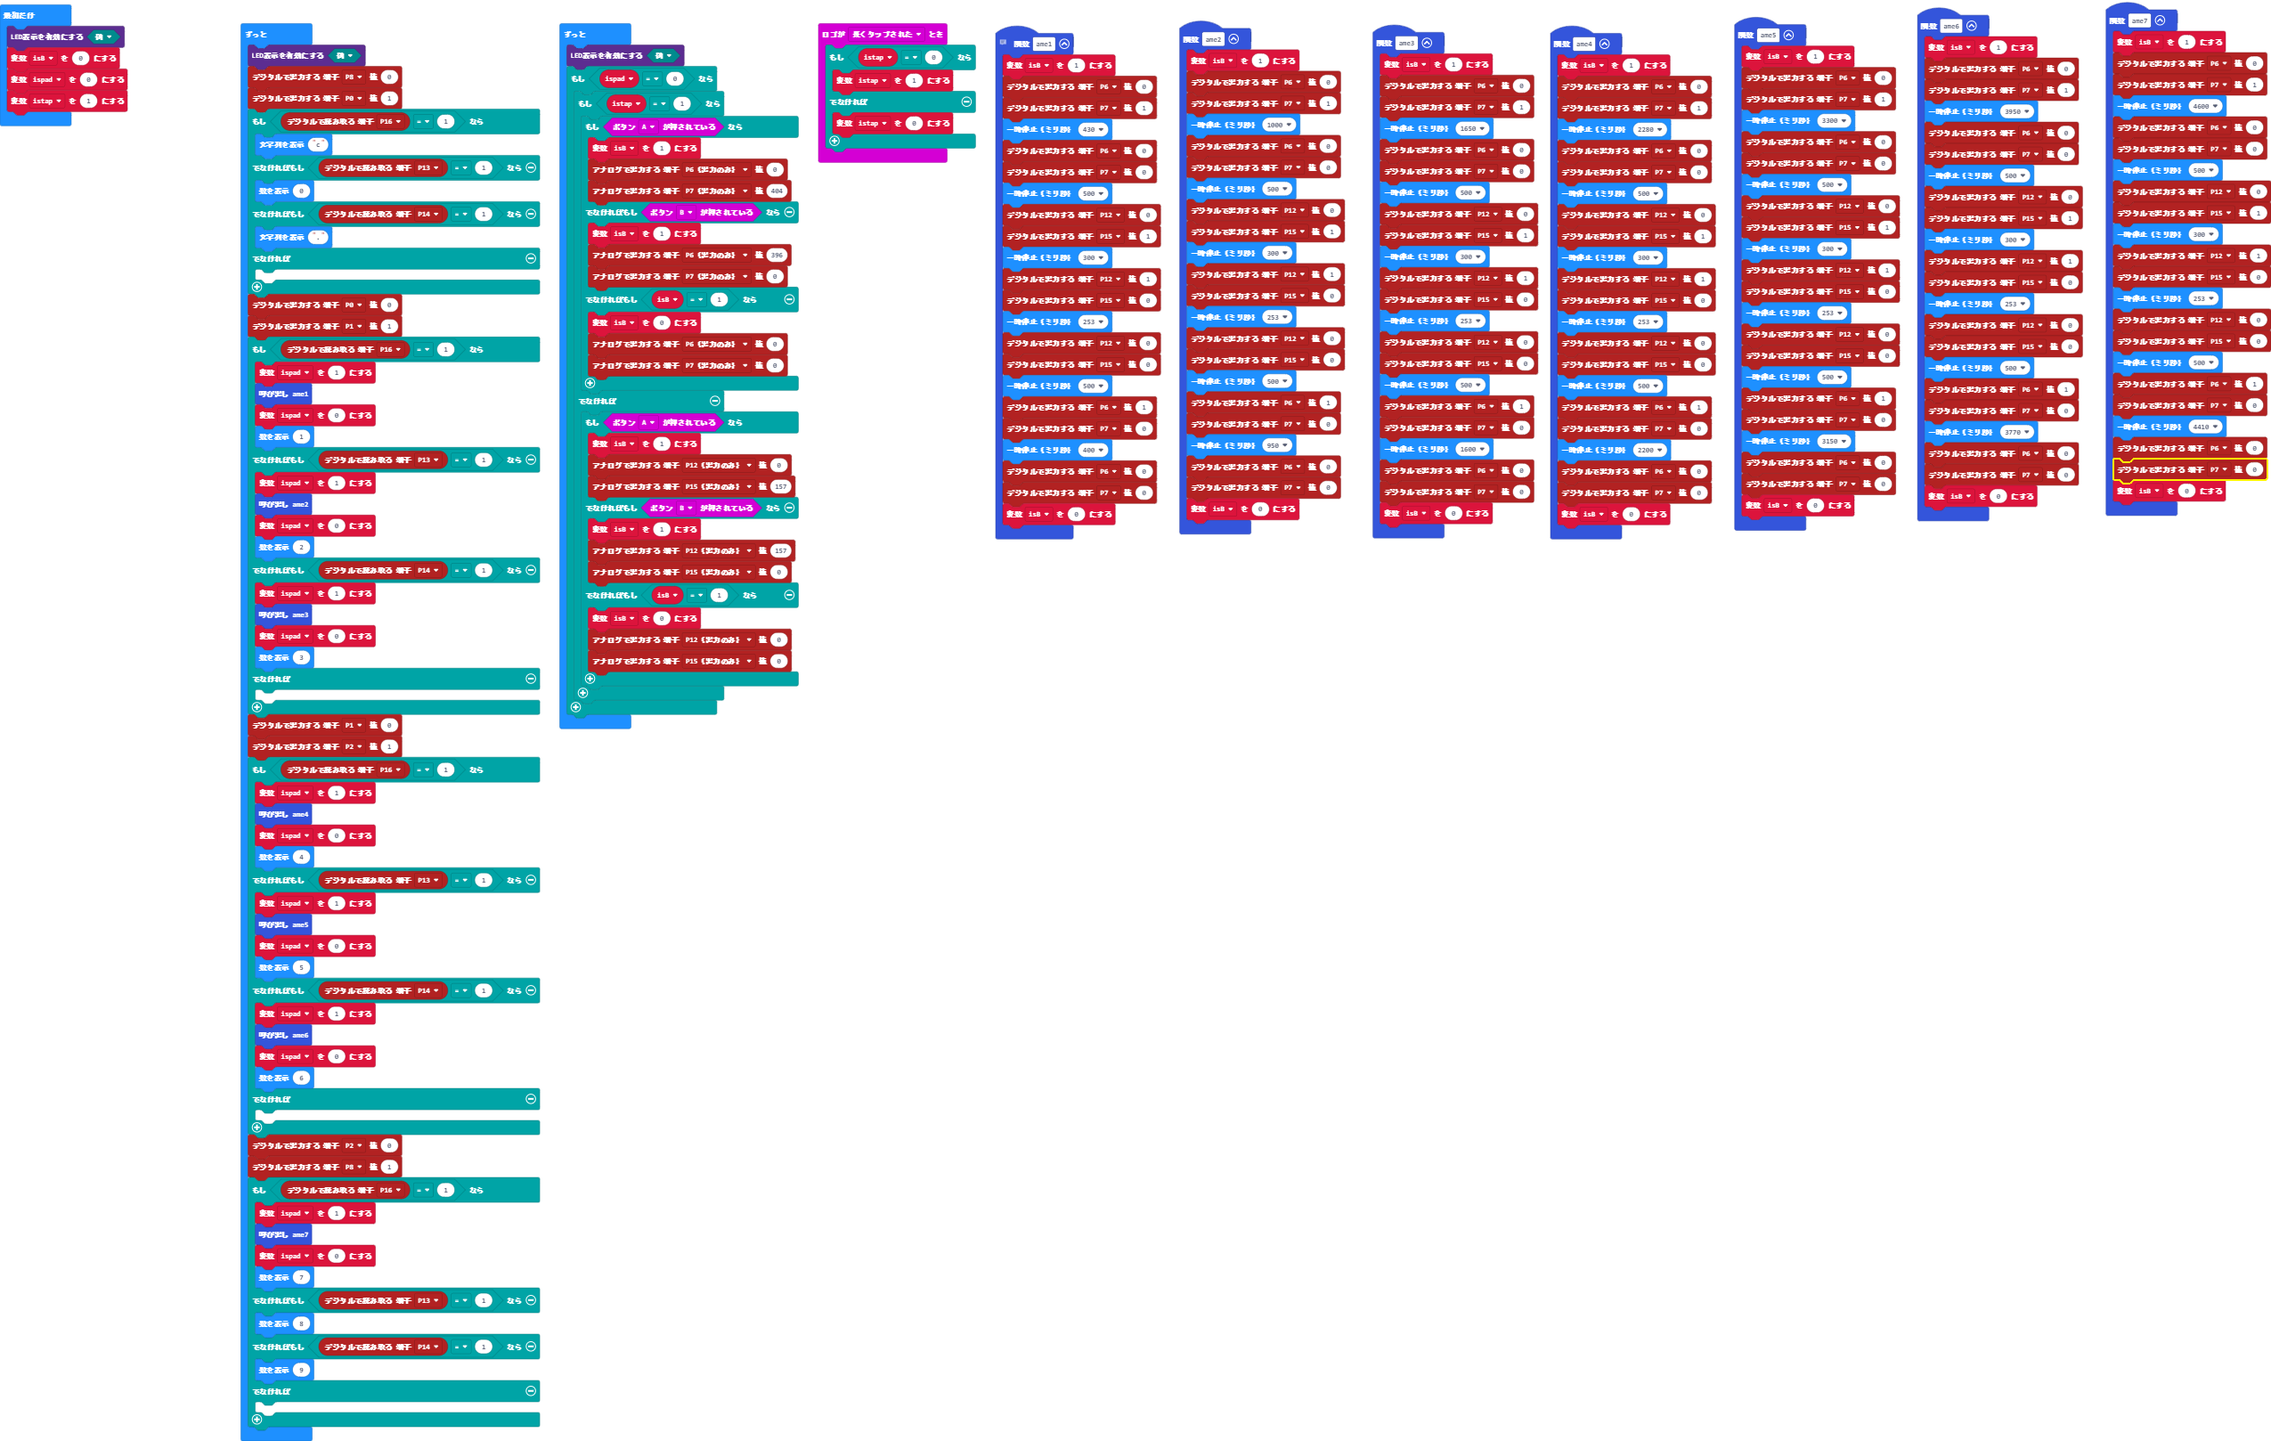
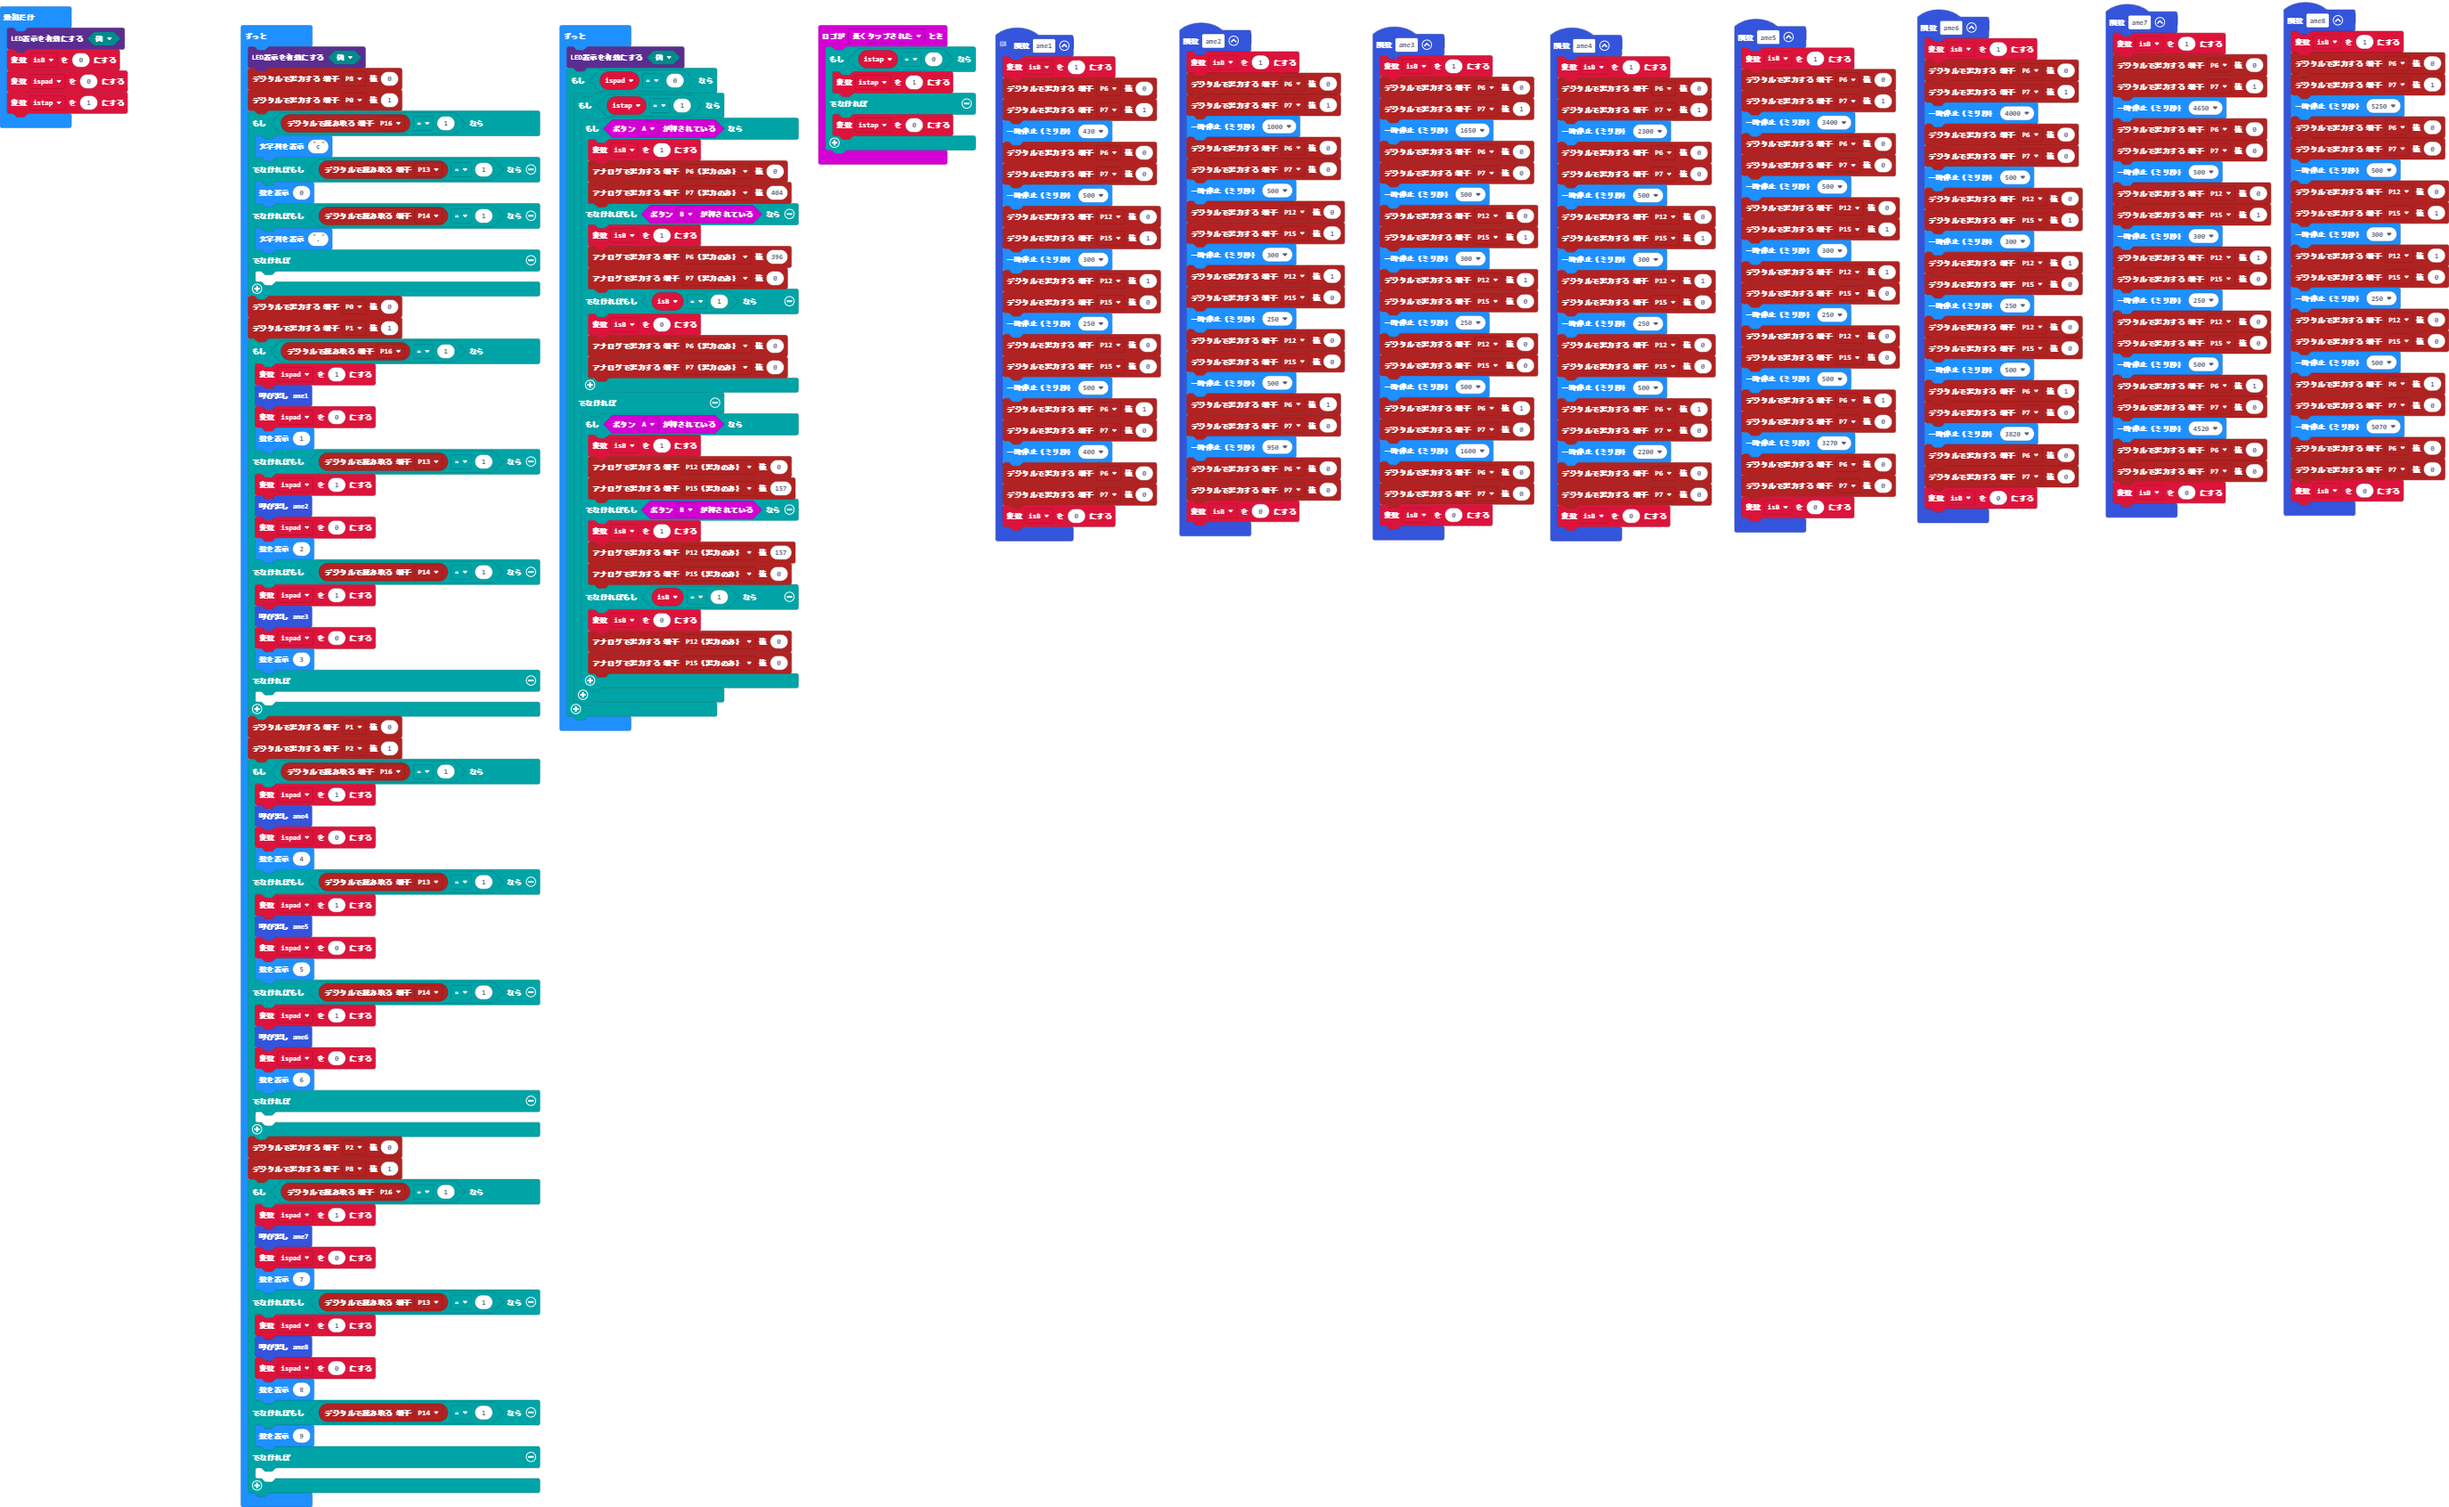
更新 main.blocks, main.ts

Changed region(s): [[0.0929, 0.0, 1.0, 1.0], [0.0, 0.0, 0.062, 0.0927]]

diff --git a/main.ts b/main.ts
@@ -11,7 +11,7 @@ function ame3 () {
     basic.pause(300)
     pins.digitalWritePin(DigitalPin.P12, 1)
     pins.digitalWritePin(DigitalPin.P15, 0)
-    basic.pause(253)
+    basic.pause(250)
     pins.digitalWritePin(DigitalPin.P12, 0)
     pins.digitalWritePin(DigitalPin.P15, 0)
     basic.pause(500)
@@ -60,7 +60,7 @@ function ame1 () {
     basic.pause(300)
     pins.digitalWritePin(DigitalPin.P12, 1)
     pins.digitalWritePin(DigitalPin.P15, 0)
-    basic.pause(253)
+    basic.pause(250)
     pins.digitalWritePin(DigitalPin.P12, 0)
     pins.digitalWritePin(DigitalPin.P15, 0)
     basic.pause(500)
@@ -82,7 +82,7 @@ function ame4 () {
     isB = 1
     pins.digitalWritePin(DigitalPin.P6, 0)
     pins.digitalWritePin(DigitalPin.P7, 1)
-    basic.pause(2280)
+    basic.pause(2300)
     pins.digitalWritePin(DigitalPin.P6, 0)
     pins.digitalWritePin(DigitalPin.P7, 0)
     basic.pause(500)
@@ -91,7 +91,7 @@ function ame4 () {
     basic.pause(300)
     pins.digitalWritePin(DigitalPin.P12, 1)
     pins.digitalWritePin(DigitalPin.P15, 0)
-    basic.pause(253)
+    basic.pause(250)
     pins.digitalWritePin(DigitalPin.P12, 0)
     pins.digitalWritePin(DigitalPin.P15, 0)
     basic.pause(500)
@@ -106,7 +106,7 @@ function ame5 () {
     isB = 1
     pins.digitalWritePin(DigitalPin.P6, 0)
     pins.digitalWritePin(DigitalPin.P7, 1)
-    basic.pause(3300)
+    basic.pause(3400)
     pins.digitalWritePin(DigitalPin.P6, 0)
     pins.digitalWritePin(DigitalPin.P7, 0)
     basic.pause(500)
@@ -115,13 +115,37 @@ function ame5 () {
     basic.pause(300)
     pins.digitalWritePin(DigitalPin.P12, 1)
     pins.digitalWritePin(DigitalPin.P15, 0)
-    basic.pause(253)
+    basic.pause(250)
     pins.digitalWritePin(DigitalPin.P12, 0)
     pins.digitalWritePin(DigitalPin.P15, 0)
     basic.pause(500)
     pins.digitalWritePin(DigitalPin.P6, 1)
     pins.digitalWritePin(DigitalPin.P7, 0)
-    basic.pause(3150)
+    basic.pause(3270)
+    pins.digitalWritePin(DigitalPin.P6, 0)
+    pins.digitalWritePin(DigitalPin.P7, 0)
+    isB = 0
+}
+function ame8 () {
+    isB = 1
+    pins.digitalWritePin(DigitalPin.P6, 0)
+    pins.digitalWritePin(DigitalPin.P7, 1)
+    basic.pause(5250)
+    pins.digitalWritePin(DigitalPin.P6, 0)
+    pins.digitalWritePin(DigitalPin.P7, 0)
+    basic.pause(500)
+    pins.digitalWritePin(DigitalPin.P12, 0)
+    pins.digitalWritePin(DigitalPin.P15, 1)
+    basic.pause(300)
+    pins.digitalWritePin(DigitalPin.P12, 1)
+    pins.digitalWritePin(DigitalPin.P15, 0)
+    basic.pause(250)
+    pins.digitalWritePin(DigitalPin.P12, 0)
+    pins.digitalWritePin(DigitalPin.P15, 0)
+    basic.pause(500)
+    pins.digitalWritePin(DigitalPin.P6, 1)
+    pins.digitalWritePin(DigitalPin.P7, 0)
+    basic.pause(5070)
     pins.digitalWritePin(DigitalPin.P6, 0)
     pins.digitalWritePin(DigitalPin.P7, 0)
     isB = 0
@@ -130,7 +154,7 @@ function ame7 () {
     isB = 1
     pins.digitalWritePin(DigitalPin.P6, 0)
     pins.digitalWritePin(DigitalPin.P7, 1)
-    basic.pause(4600)
+    basic.pause(4650)
     pins.digitalWritePin(DigitalPin.P6, 0)
     pins.digitalWritePin(DigitalPin.P7, 0)
     basic.pause(500)
@@ -139,13 +163,13 @@ function ame7 () {
     basic.pause(300)
     pins.digitalWritePin(DigitalPin.P12, 1)
     pins.digitalWritePin(DigitalPin.P15, 0)
-    basic.pause(253)
+    basic.pause(250)
     pins.digitalWritePin(DigitalPin.P12, 0)
     pins.digitalWritePin(DigitalPin.P15, 0)
     basic.pause(500)
     pins.digitalWritePin(DigitalPin.P6, 1)
     pins.digitalWritePin(DigitalPin.P7, 0)
-    basic.pause(4410)
+    basic.pause(4520)
     pins.digitalWritePin(DigitalPin.P6, 0)
     pins.digitalWritePin(DigitalPin.P7, 0)
     isB = 0
@@ -154,7 +178,7 @@ function ame6 () {
     isB = 1
     pins.digitalWritePin(DigitalPin.P6, 0)
     pins.digitalWritePin(DigitalPin.P7, 1)
-    basic.pause(3950)
+    basic.pause(4000)
     pins.digitalWritePin(DigitalPin.P6, 0)
     pins.digitalWritePin(DigitalPin.P7, 0)
     basic.pause(500)
@@ -163,13 +187,13 @@ function ame6 () {
     basic.pause(300)
     pins.digitalWritePin(DigitalPin.P12, 1)
     pins.digitalWritePin(DigitalPin.P15, 0)
-    basic.pause(253)
+    basic.pause(250)
     pins.digitalWritePin(DigitalPin.P12, 0)
     pins.digitalWritePin(DigitalPin.P15, 0)
     basic.pause(500)
     pins.digitalWritePin(DigitalPin.P6, 1)
     pins.digitalWritePin(DigitalPin.P7, 0)
-    basic.pause(3770)
+    basic.pause(3820)
     pins.digitalWritePin(DigitalPin.P6, 0)
     pins.digitalWritePin(DigitalPin.P7, 0)
     isB = 0
@@ -187,7 +211,7 @@ function ame2 () {
     basic.pause(300)
     pins.digitalWritePin(DigitalPin.P12, 1)
     pins.digitalWritePin(DigitalPin.P15, 0)
-    basic.pause(253)
+    basic.pause(250)
     pins.digitalWritePin(DigitalPin.P12, 0)
     pins.digitalWritePin(DigitalPin.P15, 0)
     basic.pause(500)
@@ -265,6 +289,9 @@ basic.forever(function () {
         ispad = 0
         basic.showNumber(7)
     } else if (pins.digitalReadPin(DigitalPin.P13) == 1) {
+        ispad = 1
+        ame8()
+        ispad = 0
         basic.showNumber(8)
     } else if (pins.digitalReadPin(DigitalPin.P14) == 1) {
         basic.showNumber(9)
